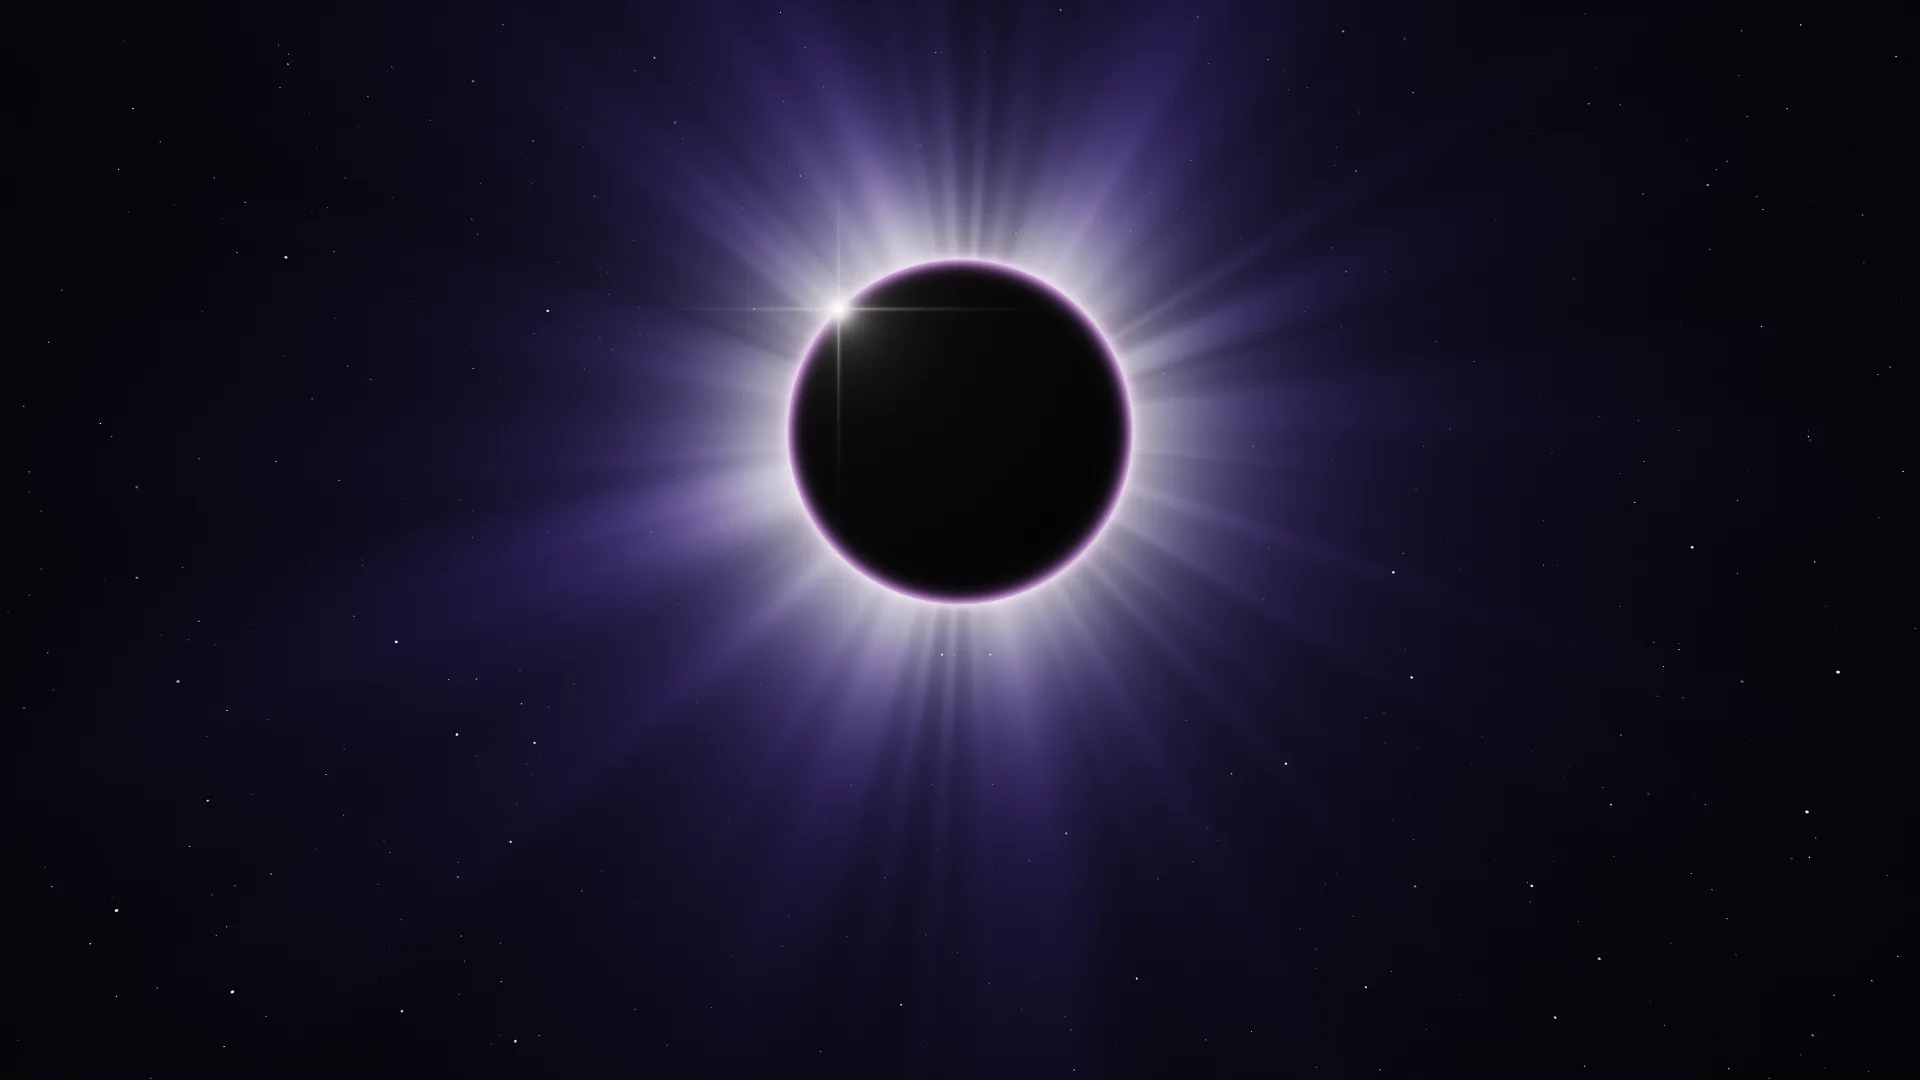
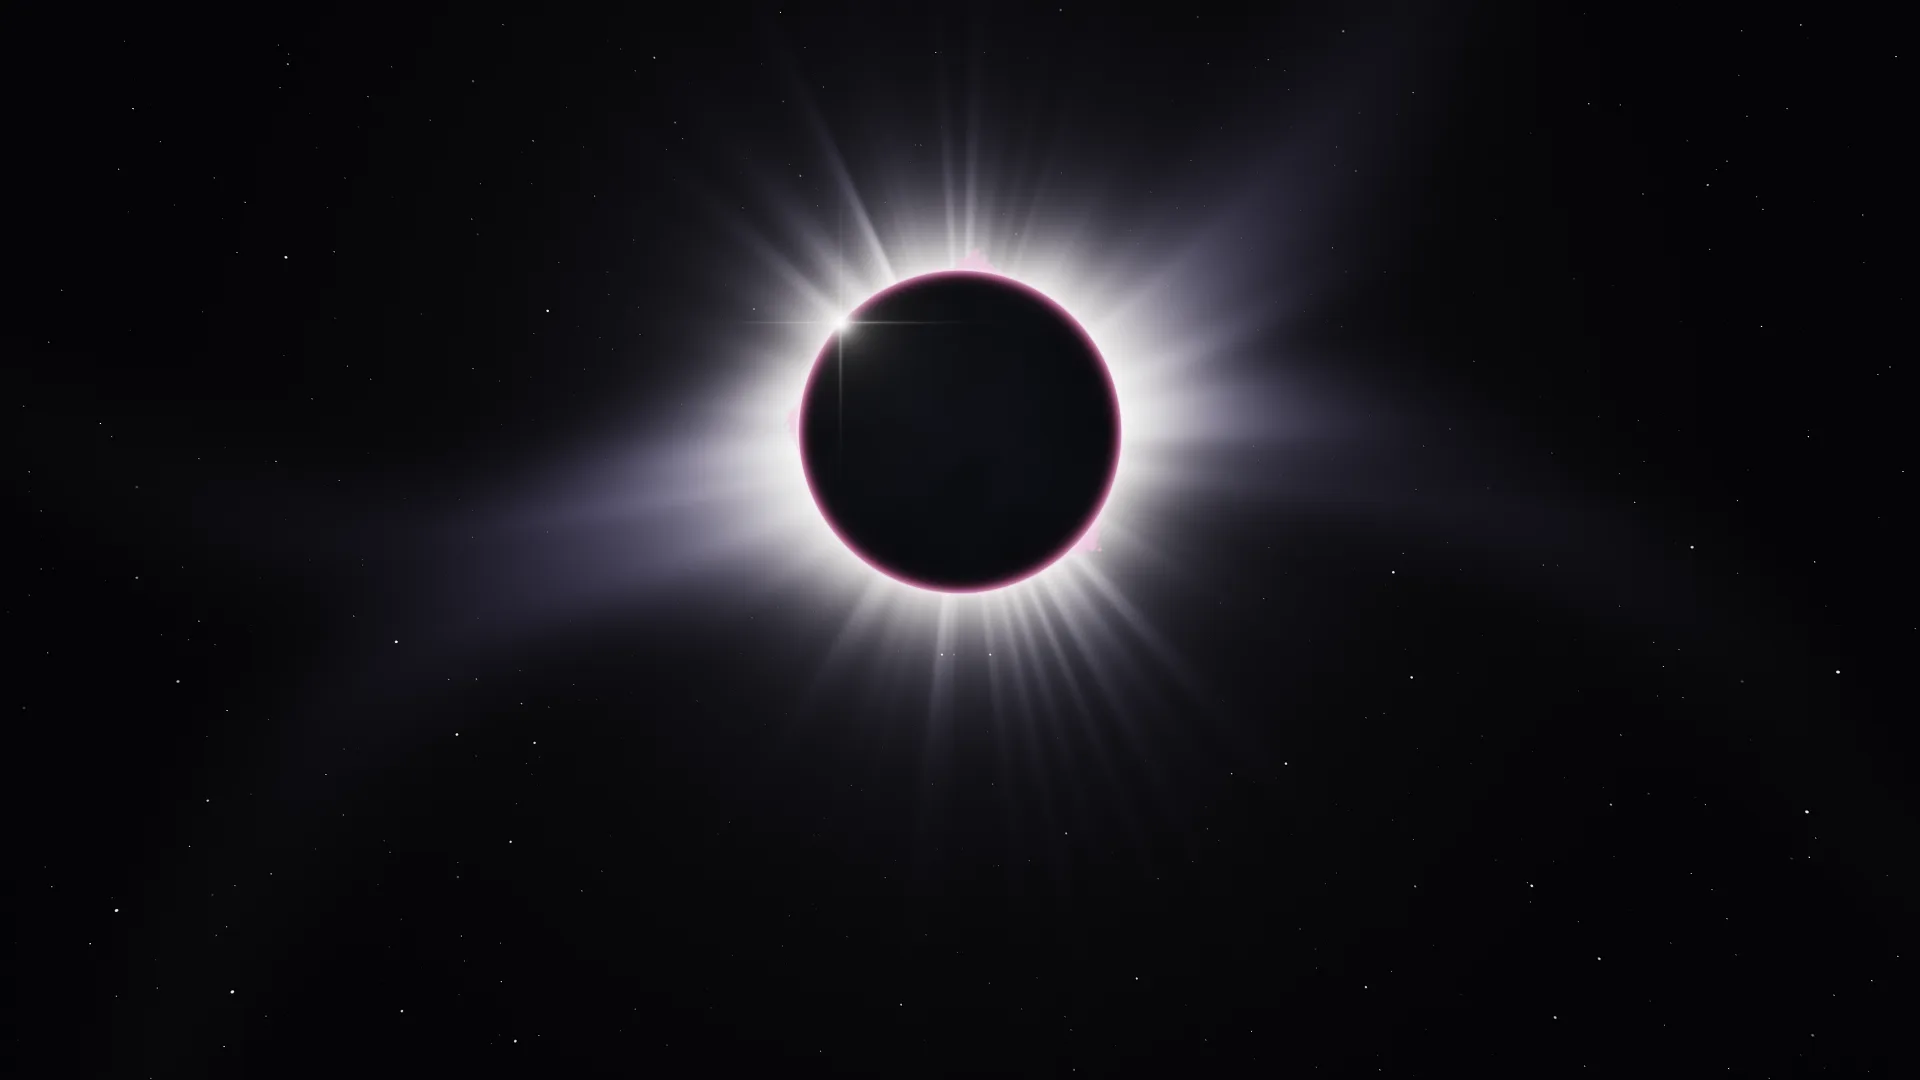
feat: enhance visuals for Singularity and Valley shaders; update helmet styling in CSS

Changed region(s): [[0.2188, 0.0, 0.7812, 0.9778]]

diff --git a/src/components/scenes/world/shaders/singularity.ts b/src/components/scenes/world/shaders/singularity.ts
@@ -1,34 +1,43 @@
 /**
- * Singularity (nocturne mood): a total eclipse seen face-on - a perfect black
- * disc ringed by its corona, fine streamers of light combed outward, a hairline
- * of chromosphere at the limb and one diamond bead where the last of the light
- * slips past the edge. One light, one silhouette, deep black around it.
+ * Singularity (nocturne mood): a total eclipse, face-on, drawn the way the real
+ * thing photographs. The corona falls off steeply from the limb (a K-corona
+ * ~r^-7 over a faint, far-reaching F-corona); long helmet streamers flare out
+ * along a tilted equator, tapering and bending as they go; fine polar plumes
+ * comb the poles; a few rose prominences stand on the limb over a hairline of
+ * chromosphere; and one diamond bead burns where the last of the light slips
+ * past. The disc is not quite void: a whisper of earthshine. Pearl white near
+ * the limb, only the far corona takes the mood's hue.
  *
  * The corona is the spectrum: bass along the lower limb, treble along the upper,
- * and the music travels outward through the streamers - the light near the disc
- * is what plays now, the light further out is what played a moment ago. Each
- * downbeat sends a faint shell of light rising off the limb; the bead breathes
- * with the low end.
+ * and the music travels outward through it - the light near the disc is what
+ * plays now, further out what played a moment ago. Each downbeat lets a faint
+ * shell of light rise off the limb; the bead breathes with the low end.
  */
 export const SINGULARITY = /* glsl */ `
 const vec2 EC_C = vec2(0.0, 0.1);
-const float EC_R = 0.16;
-/* The bead sits on the upper-left limb. */
-const float BEAD_ANGLE = 2.35;
-/* Seconds of music held per screen unit above the limb. */
-const float CORONA_MEMORY = 11.0;
+const float EC_R = 0.15;
+/* The solar equator's tilt, and where the bead sits on the limb. */
+const float EQ_TILT = 0.32;
+const float BEAD_ANGLE = 2.4;
+/* Seconds of music held per disc radius above the limb. */
+const float CORONA_MEMORY = 1.6;
 
-/* Streamers: noise sampled round a circle (seamless in angle) and barely
-   moving with height, so the structure reads as fine radial combing. */
-float streamers(vec2 dir, float x, float t) {
+float angDiff(float a, float b) {
+  return atan(sin(a - b), cos(a - b));
+}
+
+/* Helmet streamers: broad at the limb, tapering and curving poleward as they
+   reach out. Four of them, uneven, like a real minimum-activity corona. */
+float streamers(float th, float rr) {
   float s = 0.0;
-  float amp = 0.6;
-  float f = 3.2;
-  for (int i = 0; i < 3; i++) {
-    float n = noise2(dir * f + vec2(x * 1.2 + t, x * 0.7 - t * 0.6) + float(i) * 7.3);
-    s += amp * pow(n, 2.6);
-    f *= 2.35;
-    amp *= 0.55;
+  for (int i = 0; i < 4; i++) {
+    float fi = float(i);
+    float side = i < 2 ? 0.0 : PI;
+    float base = EQ_TILT + side + (i == 0 || i == 2 ? 0.16 : -0.2);
+    float bend = (i == 0 || i == 3 ? 1.0 : -1.0) * 0.1 * (rr - 1.0);
+    float width = (0.3 + 0.14 * hash12(vec2(fi, 3.0))) / pow(rr, 0.75);
+    float strength = 0.6 + 0.8 * hash12(vec2(fi, 9.0));
+    s += strength * exp(-sq(angDiff(th, base + bend) / width));
   }
   return s;
 }
@@ -38,18 +47,25 @@ vec3 world(vec2 fragCoord) {
   vec2 d = uv - EC_C - uPointer * 0.006;
   float r = length(d);
   vec2 dir = d / max(r, 1e-4);
-  float x = max(r - EC_R, 0.0);
+  float th = atan(d.y, d.x);
+  float rr = max(r / EC_R, 1.0);
+  float x = rr - 1.0;
   float aa = fwidth(r) * 1.2;
 
-  vec3 inner = mix(vec3(1.0, 0.97, 0.94), uColA, 0.25);
-  vec3 outer = mix(uColB, uColA, 0.35);
+  /* Radial falloff: bright inner corona, faint far glow. */
+  float kCorona = pow(rr, -7.0);
+  float fCorona = pow(rr, -2.4) * 0.05;
 
-  float combs = streamers(dir, x, uTime * 0.004);
-  float falloff = exp(-x / 0.06) * 0.85 + exp(-x / 0.2) * 0.26 + exp(-x / 0.45) * 0.025;
+  /* Structure: streamers, polar plumes, and a fine combing through it all. */
+  float helmets = streamers(th, rr) * pow(rr, -3.2);
+  float polar = exp(-sq(angDiff(th, EQ_TILT + PI * 0.5) / 0.55)) + exp(-sq(angDiff(th, EQ_TILT - PI * 0.5) / 0.55));
+  float plumeRays = pow(noise2(dir * 22.0 + vec2(x * 0.15)), 3.0) * 2.4;
+  float plumes = polar * plumeRays * pow(rr, -5.5) * 0.6;
+  float comb = 0.7 + 0.6 * pow(noise2(dir * 9.0 + vec2(x * 0.35 + uTime * 0.004, -x * 0.2)), 2.0);
 
-  /* The music, read round the limb and outward in time. */
-  /* Blurred across neighbouring bands and across a second of history, so the
-     corona swells as light - never as rings or hard sectors. */
+  /* The music, read round the limb and outward in time - blurred across
+     neighbouring bands and a second of history, so the corona swells as light,
+     never as rings or hard sectors. */
   float band = dir.y * 0.5 + 0.5;
   float age = x * CORONA_MEMORY;
   float s = 0.0;
@@ -59,36 +75,55 @@ vec3 world(vec2 fragCoord) {
     }
   }
   s /= 9.0;
-  float music = mix(0.6, 0.45 + s * 0.8, uPlaying);
+  float music = mix(0.7, 0.55 + s * 0.8, uPlaying) * (1.0 + uLevel * 0.25 * uPlaying);
 
   float shells = 0.0;
   for (int i = 0; i < 3; i++) {
-    float age = uKicks[i];
-    shells += exp(-sq((x - age * 0.16) / 0.035)) * exp(-age * 1.6);
+    float kAge = uKicks[i];
+    shells += exp(-sq((x - kAge * 1.1) / 0.25)) * exp(-kAge * 1.6);
   }
 
-  float corona = falloff * (0.35 + 1.25 * combs) * music + shells * 0.15 * uPlaying * (0.4 + combs);
-  vec3 col = mix(outer, inner, exp(-x / 0.09)) * corona * (1.0 + uLevel * 0.3 * uPlaying);
+  float corona = (kCorona * 1.1 + helmets * 0.9 + plumes) * comb * music + fCorona;
+  corona += shells * 0.06 * uPlaying * (kCorona * 4.0 + helmets);
 
-  /* Deep space behind, dimmed where the corona already owns the light. */
+  /* Pearl at the limb, the mood's hue only in the far, faint corona. */
+  vec3 pearl = vec3(1.0, 0.97, 0.94);
+  vec3 far = mix(uColA, vec3(0.85, 0.85, 1.0), 0.5);
+  vec3 col = mix(far, pearl, exp(-x * 1.4)) * corona;
+
+  /* Deep space behind. */
   vec3 rd = normalize(vec3(uv, 1.0));
-  col += (uBg * 0.16 + starfield(rd, 1.3) * 0.9) * (1.0 - clamp(corona * 1.5, 0.0, 1.0));
+  col += (uBg * 0.08 + starfield(rd, 1.2) * 0.9) * (1.0 - clamp(corona * 2.0, 0.0, 1.0));
 
-  /* The disc: true black, anti-aliased edge. */
-  col *= smoothstep(EC_R - aa, EC_R + aa, r);
+  /* The disc: earthshine, barely there, over true shadow. */
+  float disc = 1.0 - smoothstep(EC_R - aa, EC_R + aa, r);
+  vec3 earthshine = vec3(0.005, 0.006, 0.011) * (0.6 + 0.8 * fbm2(d * 18.0 + 4.0)) * (1.0 - r / EC_R * 0.5);
+  col = mix(col, earthshine, disc);
 
-  /* Chromosphere: a hairline of rose light hugging the limb. */
-  vec3 chromo = mix(uColA, vec3(1.0, 0.45, 0.62), 0.45);
-  col += chromo * exp(-abs(r - EC_R) / (0.0022 + aa)) * 0.9;
+  /* Chromosphere and prominences: rose light standing on the limb. */
+  vec3 rose = mix(vec3(1.0, 0.32, 0.46), uColA, 0.2);
+  float lift = 0.0;
+  for (int i = 0; i < 3; i++) {
+    float fi = float(i);
+    float at = 0.9 + fi * 2.1 + hash12(vec2(fi, 1.0)) * 0.6;
+    float height = (0.06 + 0.07 * hash12(vec2(fi, 6.0))) * EC_R;
+    float shape = exp(-sq(angDiff(th, at) / (0.06 + 0.04 * hash12(vec2(fi, 2.0)))));
+    float ragged = 0.6 + 0.8 * noise2(vec2(th * 40.0 + fi * 5.0, (r - EC_R) * 300.0 + uTime * 0.05));
+    lift = max(lift, height * shape * ragged);
+  }
+  float above = r - EC_R;
+  float prom = (1.0 - smoothstep(lift * 0.6, lift + aa, above)) * step(0.0, above) * step(0.0001, lift);
+  col = mix(col, rose * (1.4 + uTreble * 0.5 * uPlaying), prom * 0.85);
+  col += rose * exp(-abs(above) / (0.0016 + aa)) * 0.8;
 
-  /* The diamond bead and its four-point glint. */
+  /* The diamond bead, with a short four-point glint. */
   vec2 bead = EC_C + vec2(cos(BEAD_ANGLE), sin(BEAD_ANGLE)) * EC_R;
   vec2 b = uv - uPointer * 0.006 - bead;
   float bb = dot(b, b);
-  float breath = 1.0 + uBass * 0.4 * uPlaying;
-  vec3 beadLight = vec3(1.0, 0.98, 0.96) * (0.000045 / (bb + 0.000012)) * breath;
-  float spikes = (exp(-abs(b.x) * 900.0) * exp(-abs(b.y) * 26.0) + exp(-abs(b.y) * 900.0) * exp(-abs(b.x) * 26.0)) * 0.35;
-  col += beadLight + inner * spikes * breath;
+  float breath = 1.0 + uBass * 0.35 * uPlaying;
+  col += pearl * (0.000032 / (bb + 0.000009)) * breath;
+  float spikes = exp(-abs(b.x) * 1100.0) * exp(-abs(b.y) * 34.0) + exp(-abs(b.y) * 1100.0) * exp(-abs(b.x) * 34.0);
+  col += pearl * spikes * 0.28 * breath;
   return col;
 }
 `;

diff --git a/src/components/scenes/world/shaders/valley.ts b/src/components/scenes/world/shaders/valley.ts
@@ -105,23 +105,39 @@ vec3 world(vec2 fragCoord) {
     float vertical = smoothstep(WATER, max(h, WATER + 0.001), q.y);
     vec3 rock = mix(haze * 0.8, ink, 0.45 + pow(near, 0.8) * 0.55);
     rock = mix(rock * 0.7, rock, vertical);
-    /* Strata: faint vertical grain in the rock, and the inner faces - turned
-       to the open sea - catching the last warm light. */
-    rock *= 0.9 + 0.2 * noise2(vec2(ax * mix(90.0, 45.0, near) + fi * 7.0, q.y * 3.0));
+    /* Relief: a height field of vertical fissures and horizontal ledges, lit
+       from the sky above (its slope read against a sample just below), so the
+       walls read as carved rock rather than cut paper. Finer and fainter far off. */
+    vec2 rp = vec2(ax * mix(30.0, 15.0, near) + fi * 7.0 + side * 2.3, q.y * mix(14.0, 7.0, near));
+    float fissure = 1.0 - abs(fbm2(rp * vec2(1.0, 0.5)) * 2.0 - 1.0);
+    float ledge = smoothstep(0.45, 0.75, fbm2(rp * vec2(0.3, 2.2) + 9.0));
+    float relief = fissure * fissure * 0.6 + ledge * 0.4;
+    vec2 rq = rp + vec2(0.0, -0.25);
+    float fissureB = 1.0 - abs(fbm2(rq * vec2(1.0, 0.5)) * 2.0 - 1.0);
+    float below = fissureB * fissureB * 0.6 + smoothstep(0.45, 0.75, fbm2(rq * vec2(0.3, 2.2) + 9.0)) * 0.4;
+    float lit = clamp(0.5 + (relief - below) * 5.0, 0.0, 1.0);
+    rock *= mix(1.0, 0.6 + 0.8 * lit, 0.14 + near * 0.22);
+    rock *= 0.9 + 0.16 * relief;
+    /* The inner faces - turned to the open sea - catching the last warm light. */
     float innerFace = 1.0 - smoothstep(gap, gap + face * 2.5, ax);
     rock += mix(uColA, vec3(1.0, 0.6, 0.45), 0.4) * innerFace * (0.05 + (1.0 - near) * 0.05) * (1.0 - vertical * 0.6);
     /* The aurora's glow grazing each crest. */
     /* (Bounded: far above a crest the unbounded exp overflows, and inf * 0 in
        the mix below would be NaN - a black hole in the sky.) */
     rock += mix(uColB, vec3(0.9, 0.6, 0.8), 0.5) * exp(min(dist, 0.0) / 0.0022) * (0.1 + (1.0 - near) * 0.06);
-    /* Mist pooled at the waterline between the walls. */
-    rock = mix(rock, haze * 1.25, (1.0 - smoothstep(WATER, WATER + 0.02 + (1.0 - near) * 0.03, q.y)) * (0.45 - near * 0.35));
+    /* Mist pooled at the waterline between the walls, in drifting banks. */
+    float bank = fbm2(vec2(q.x * 3.0 + fi * 4.0 + uTime * 0.006, (q.y - WATER) * 40.0));
+    float mistH = 0.02 + (1.0 - near) * 0.03 + bank * 0.025;
+    rock = mix(rock, haze * 1.25, (1.0 - smoothstep(WATER, WATER + mistH, q.y)) * (0.5 - near * 0.35) * (0.6 + 0.6 * bank));
     col = mix(col, rock, body);
   }
 
-  /* Water: darker and cooler than what it holds, a faint sheen far off. */
-  vec3 water = col * mix(0.7, 0.45, depth) + uColC * 0.004;
+  /* Water: darker and cooler than what it holds, a faint sheen far off, and
+     fine wind lines - slow, and deaf to the music like the rock. */
+  float wind = fbm2(vec2(p.x * 2.0 + uTime * 0.004, p.y * 60.0 / (0.3 + depth)));
+  vec3 water = col * mix(0.72, 0.45, depth) * (0.88 + 0.24 * wind) + uColC * 0.004;
   water += mix(uColB, vec3(1.0, 0.7, 0.6), 0.4) * exp(-depth * 40.0) * 0.03;
+  water += mix(uColA, vec3(1.0, 0.75, 0.6), 0.4) * exp(-abs(p.x) * 9.0) * smoothstep(0.62, 0.8, wind) * (1.0 - depth) * 0.05;
   col = mix(col, water, under);
   return col;
 }

diff --git a/src/index.css b/src/index.css
@@ -898,10 +898,13 @@
     background-position: center, right top;
   }
 
-  /* Daylight through the visor: the rim reads as tinted shade, not a bezel. */
-  :root:not(.dark) .helmet {
-    --visor-rim: 96, 104, 140;
-    --visor-rim-alpha: 0.4;
+  /* Daylight through the visor: the rim stays true black (on OLED the helmet
+     simply disappears into the screen's edge, in every mood), only its inner
+     shade is lighter so the bright sky doesn't read as vignetted. */
+  :root:not(.dark) .helmet::before {
+    box-shadow:
+      0 0 0 60px rgba(var(--visor-rim), var(--visor-rim-alpha)),
+      inset 0 0 70px -30px rgba(var(--visor-rim), 0.45);
   }
 
   @media (prefers-reduced-motion: reduce) {

diff --git a/DESIGN.md b/DESIGN.md
@@ -22,7 +22,7 @@ A mood = **palette + living world**, under the one shared visor HUD:
 | `dark` | Borealis | `borealis` - green aurora arcs over snowy crests and a mirror lake | dark |
 | `tidal` | Moon Tide | `tide` - a stylised mirror sea under the moon | dark |
 | `horizon` | Echo Valley | `valley` - a fjord at dusk: sheer cliffs wall behind wall in a mirror of water, a soft warm aurora above | dark |
-| `nocturne` | Singularity | `singularity` - a total eclipse face-on: a black disc, its combed corona, one diamond bead | dark |
+| `nocturne` | Singularity | `singularity` - a total eclipse face-on, photographic: steep K-corona, tapering helmet streamers, polar plumes, rose prominences, one diamond bead | dark |
 | `light` | Daybreak | `daybreak` - a sunlit sea of clouds | light |
 
 Each `MoodDef` carries an `id`, an i18n `labelKey`, a Lucide `icon`, its `base` and its `world`; `worldPoster()` / `worldThumb()` resolve the stills in `public/worlds/`. One surface switches it: the **world switcher** (`WorldSwitcher`), centred in the top bar and on the welcome stage - a radiogroup of round world thumbnails where the active one opens out to show its name. Arrow keys walk it like any radiogroup.
@@ -34,7 +34,7 @@ Everything in the chrome reads as light projected on a helmet visor: see-through
 - **`.pane`** - the holographic plate: a near-clear surface tint that thins toward the bottom, 4px scanlines in `--hud-line`, a luminous hairline, an inner bloom in `--hud-glow`, over `blur(22px) saturate(170%)`. `::before` masks a hairline frame down to four lit **corner brackets**; `::after` is the inner glow that breathes with the music's mids.
 - **Visor rails** - `.top-bar::before` and `.dock-wrap::before` paint full-width plates whose elliptical corner radii sum to the whole width, so the top bar and the dock bow toward the centre like the rim of a visor, each with a lit hairline edge. The bow overhangs only the open centre.
 - **Consoles** - `.console-left` / `.console-right` are perspective wrappers around the side panes, which swing their outer edge toward the viewer (`rotateY(±var(--hud-rake))`, hinged on the inner edge): a cockpit "V" around the view. Each console is its own perspective root (never the grid, which would flatten the centre's glass), and the raked plates carry a raised fill because backdrop blur flattens under a 3D pose.
-- **`.helmet`** - a fixed overlay above the interface (below every popover, never taking a pointer): the visor's rounded rim, a breath of glare at the top-left, and two graduated horizon rulers on the side edges. Its hairline brightens faintly with `--audio-level`.
+- **`.helmet`** - a fixed overlay above the interface (below every popover, never taking a pointer): the visor's rounded rim (true black in every mood, daybreak included - on OLED the helmet melts into the screen's edge), a breath of glare at the top-left, and two graduated horizon rulers on the side edges. Its hairline brightens faintly with `--audio-level`.
 - **`.pane-title`** - section heads as instrument labels: small caps, 0.2em tracking, a lit diamond tick. **`.hud-readout`** - small uppercase labels (11px, `--color-text-secondary`, full opacity: they must read at AA on every mood).
 
 ## Audio reactivity (breathe with the music)
